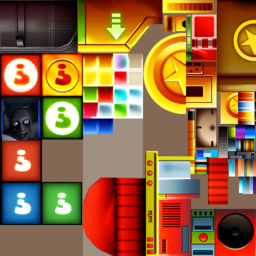
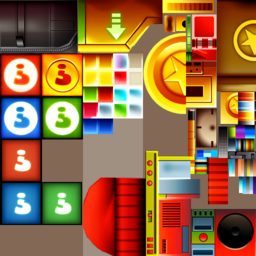
even more scary

Changed region(s): [[0.0, 0.375, 0.1562, 0.5625]]

diff --git a/Subway/js/main.js b/Subway/js/main.js
@@ -4,7 +4,7 @@ var randomNumScary = Math.random();
 
 function isScary(){
     isScaryRan = true;
-    if(randomNumScary < 0.5){
+    if(randomNumScary < 0.2){
         gameScary = true;
     };
     console.log(gameScary);
@@ -12,6 +12,35 @@ function isScary(){
 
 if(!isScaryRan){
     isScary();
+}
+
+var couldBeJake = "assets/placeholder/jake.png";
+var oceanColor = "ocean";
+var fogFunction = 187;
+var traiNS = "trains_tex";
+var proPS = "props_tex";
+var environmenT = "environment_tex";
+if(gameScary){
+    couldBeJake = "assets/placeholder/scaryface.png";
+    oceanColor = "scaryocean";
+    environmenT = "scaryenvironment_tex";  
+    proPS = "scaryprops_tex";
+    traiNS = "scarytrains_tex";
+    fogFunction = 666;
+}
+
+var scaryColorX = 0;
+var scaryColorY = 0;
+var scaryColorZ = 0;
+
+if(gameScary){
+    scaryColorX = .5;
+    scaryColorY = .5;
+    scaryColorZ = 0;
+}else{
+    ScaryColorX = 0.388;
+    ScaryColorY = 0.698;
+    ScaryColorZ = 1;
 }
 
 !(function (h) {
@@ -352,6 +381,10 @@ if(!isScaryRan){
               default: "game/ocean.png",
               low: "game/ocean_mip.png",
             },
+            "game/scaryocean": {
+                default: "game/scaryocean.png",
+                low: "game/scaryocean_mip.png",
+            },
             "game/shadow": {
               default: "game/shadow.png",
               low: "game/shadow_mip.png",
@@ -417,6 +450,10 @@ if(!isScaryRan){
               default: "idle/environment_tex.png",
               low: "idle/environment_tex_mip.png",
             },
+            "idle/scaryenvironment_tex":{
+              default: "idle/scaryenvironment_tex.png",
+              low: "idle/scaryenvironment_tex_mip.png",
+            },
             "idle/jake_tex": {
               default: "idle/jake_tex.png",
               low: "idle/jake_tex_mip.png",
@@ -424,6 +461,10 @@ if(!isScaryRan){
             "idle/props_tex": {
               default: "idle/props_tex.png",
               low: "idle/props_tex_mip.png",
+            },
+            "idle/scaryprops_tex": {
+                default: "idle/scaryprops_tex.png",
+                low: "idle/scaryprops_tex_mip.png",
             },
             "idle/train_start": {
               default: "idle/train_start.png",
@@ -436,6 +477,10 @@ if(!isScaryRan){
             "idle/trains_tex": {
               default: "idle/trains_tex.png",
               low: "idle/trains_tex_mip.png",
+            },
+            "idle/scarytrains_tex": {
+                default: "idle/scarytrains_tex.png",
+                low: "idle/scarytrains_tex_mip.png",
             },
           },
           fonts: {},
@@ -505,6 +550,9 @@ if(!isScaryRan){
             "placeholder/jake": {
               default: "placeholder/jake.png",
             },
+            "placeholder/scaryface": {
+                default: "placeholder/scaryface.png",
+            },
           },
           fonts: {},
           audio: {},
@@ -558,6 +606,10 @@ if(!isScaryRan){
     187: function (t, e) {
       t.exports =
         "uniform vec3 uGlobalAmbient;\nuniform float uOpacity;\nuniform vec3 uAmbiantLight;\n\nvarying vec3 vNormal;\nvarying vec3 vPosition;\nvarying vec4 vScreenPosition;\n\n#ifdef COLOR\nuniform vec3 uColor;\n#endif\n\n#ifdef OCCLUSION_MAP\nuniform sampler2D uOcclusionMap;\n#endif\n\n#if defined( MAP ) || defined( EMISSIVE_MAP ) || defined( OCCLUSION_MAP )\nvarying vec2 vUv;\n#endif\n\n#ifdef MAP\nuniform sampler2D uMap;\n#endif\n\n#ifdef FOG\nvarying float vFogFactor;\nvarying vec3 vFogColor;\n#endif\n\n#HOOK_LIGHT_UNIFROMS\n\nvec3 gammaCorrectInput(vec3 color) {\n    return pow(color, vec3(2.2));\n}\n\nfloat gammaCorrectInput(float color) {\n    return pow(color, 2.2);\n}\n\nvec4 gammaCorrectInput(vec4 color) {\n    return vec4(pow(color.rgb, vec3(2.2)), color.a);\n}\n\nvec3 gammaCorrectOutput(vec3 color) {\n    color += vec3(0.0000001);\n    return pow(color, vec3(0.45));\n}\n\nvec4 texture2DSRGB(sampler2D tex, vec2 uv) {\n    vec4 rgba = texture2D(tex, uv);\n    rgba.rgb = gammaCorrectInput(rgba.rgb);\n    return rgba;\n}\n\n\n#HOOK_FRAGMENT_START\n\nvoid main() {\n  vec4 finalColor = vec4(0.0, 0.0, 0.0, uOpacity);\n  vec4 diffuseColor = vec4(1.0, 1.0, 1.0, uOpacity);\n\n#ifdef COLOR\n    diffuseColor.rgb *= uColor;\n#endif\n\n#ifdef MAP\n    // diffuseColor *= texture2DSRGB(uMap, vUv);\n    diffuseColor *= texture2D(uMap, vUv);\n#endif\n\n    #HOOK_LIGHT;\n\n    finalColor.rgb = diffuseColor.rgb;\n    finalColor *= diffuseColor.a;\n    \n    #HOOK_FRAGMENT_MAIN\n\n    \n    gl_FragColor = vec4(finalColor.rgb * finalColor.a, finalColor.a);\n    \n    #HOOK_FRAGMENT_END\n\n#ifdef FOG\n    // FORCING FOG COLOR TO PREVENT A BUG WHERE SOME RED FOG OBJECT WHERE SHOWING UP \n    gl_FragColor.rgb = mix(gl_FragColor.rgb, vec3(0.388, 0.698, 1.0), vFogFactor);\n#endif\n\n    // gl_FragColor.rgb = gammaCorrectOutput(gl_FragColor.rgb);\n\n\n#ifdef RAILS\n    if (vPosition.y < 1.2) return;\n\n    float reflWidth = 1.5;\n    float railDist = 7.0;\n    float laneWidth = 20.0;\n    vec3 reflColor = vec3(1.0, 1.0, 1.0);\n    float reflFactor = abs(vScreenPosition.z - 100.0) * 0.02;\n    if (reflFactor < 0.0) reflFactor = 0.0;\n    if (reflFactor > 1.0) return;\n\n\n    // Middle lane\n    if (vPosition.x > -4.0 && vPosition.x < -2.5) {\n        gl_FragColor.rgb = mix(reflColor, gl_FragColor.rgb, reflFactor);\n    } else if (vPosition.x > 2.5 && vPosition.x < 4.0) {\n        gl_FragColor.rgb = mix(reflColor, gl_FragColor.rgb, reflFactor);\n    }\n\n    // Left lane\n    if (vPosition.x > -4.0 - laneWidth && vPosition.x < -2.5 - laneWidth) {\n        gl_FragColor.rgb = mix(reflColor, gl_FragColor.rgb, reflFactor);\n    } else if (vPosition.x > 2.5 - laneWidth && vPosition.x < 4.0 - laneWidth) {\n        gl_FragColor.rgb = mix(reflColor, gl_FragColor.rgb, reflFactor);\n    }\n\n    // Right lane\n    if (vPosition.x > -4.0 + laneWidth && vPosition.x < -2.5 + laneWidth) {\n        gl_FragColor.rgb = mix(reflColor, gl_FragColor.rgb, reflFactor);\n    } else if (vPosition.x > 2.5 + laneWidth && vPosition.x < 4.0 + laneWidth) {\n        gl_FragColor.rgb = mix(reflColor, gl_FragColor.rgb, reflFactor);\n    }\n#endif\n}\n";
+    },
+    666: function (t, e) {
+        t.exports = 
+        "uniform vec3 uGlobalAmbient;\nuniform float uOpacity;\nuniform vec3 uAmbiantLight;\n\nvarying vec3 vNormal;\nvarying vec3 vPosition;\nvarying vec4 vScreenPosition;\n\n#ifdef COLOR\nuniform vec3 uColor;\n#endif\n\n#ifdef OCCLUSION_MAP\nuniform sampler2D uOcclusionMap;\n#endif\n\n#if defined( MAP ) || defined( EMISSIVE_MAP ) || defined( OCCLUSION_MAP )\nvarying vec2 vUv;\n#endif\n\n#ifdef MAP\nuniform sampler2D uMap;\n#endif\n\n#ifdef FOG\nvarying float vFogFactor;\nvarying vec3 vFogColor;\n#endif\n\n#HOOK_LIGHT_UNIFROMS\n\nvec3 gammaCorrectInput(vec3 color) {\n    return pow(color, vec3(2.2));\n}\n\nfloat gammaCorrectInput(float color) {\n    return pow(color, 2.2);\n}\n\nvec4 gammaCorrectInput(vec4 color) {\n    return vec4(pow(color.rgb, vec3(2.2)), color.a);\n}\n\nvec3 gammaCorrectOutput(vec3 color) {\n    color += vec3(0.0000001);\n    return pow(color, vec3(0.45));\n}\n\nvec4 texture2DSRGB(sampler2D tex, vec2 uv) {\n    vec4 rgba = texture2D(tex, uv);\n    rgba.rgb = gammaCorrectInput(rgba.rgb);\n    return rgba;\n}\n\n\n#HOOK_FRAGMENT_START\n\nvoid main() {\n  vec4 finalColor = vec4(0.0, 0.0, 0.0, uOpacity);\n  vec4 diffuseColor = vec4(1.0, 1.0, 1.0, uOpacity);\n\n#ifdef COLOR\n    diffuseColor.rgb *= uColor;\n#endif\n\n#ifdef MAP\n    // diffuseColor *= texture2DSRGB(uMap, vUv);\n    diffuseColor *= texture2D(uMap, vUv);\n#endif\n\n    #HOOK_LIGHT;\n\n    finalColor.rgb = diffuseColor.rgb;\n    finalColor *= diffuseColor.a;\n    \n    #HOOK_FRAGMENT_MAIN\n\n    \n    gl_FragColor = vec4(finalColor.rgb * finalColor.a, finalColor.a);\n    \n    #HOOK_FRAGMENT_END\n\n#ifdef FOG\n    // FORCING FOG COLOR TO PREVENT A BUG WHERE SOME RED FOG OBJECT WHERE SHOWING UP \n    gl_FragColor.rgb = mix(gl_FragColor.rgb, vec3(.2, 0, 0), vFogFactor);\n#endif\n\n    // gl_FragColor.rgb = gammaCorrectOutput(gl_FragColor.rgb);\n\n\n#ifdef RAILS\n    if (vPosition.y < 1.2) return;\n\n    float reflWidth = 1.5;\n    float railDist = 7.0;\n    float laneWidth = 20.0;\n    vec3 reflColor = vec3(1.0, 1.0, 1.0);\n    float reflFactor = abs(vScreenPosition.z - 100.0) * 0.02;\n    if (reflFactor < 0.0) reflFactor = 0.0;\n    if (reflFactor > 1.0) return;\n\n\n    // Middle lane\n    if (vPosition.x > -4.0 && vPosition.x < -2.5) {\n        gl_FragColor.rgb = mix(reflColor, gl_FragColor.rgb, reflFactor);\n    } else if (vPosition.x > 2.5 && vPosition.x < 4.0) {\n        gl_FragColor.rgb = mix(reflColor, gl_FragColor.rgb, reflFactor);\n    }\n\n    // Left lane\n    if (vPosition.x > -4.0 - laneWidth && vPosition.x < -2.5 - laneWidth) {\n        gl_FragColor.rgb = mix(reflColor, gl_FragColor.rgb, reflFactor);\n    } else if (vPosition.x > 2.5 - laneWidth && vPosition.x < 4.0 - laneWidth) {\n        gl_FragColor.rgb = mix(reflColor, gl_FragColor.rgb, reflFactor);\n    }\n\n    // Right lane\n    if (vPosition.x > -4.0 + laneWidth && vPosition.x < -2.5 + laneWidth) {\n        gl_FragColor.rgb = mix(reflColor, gl_FragColor.rgb, reflFactor);\n    } else if (vPosition.x > 2.5 + laneWidth && vPosition.x < 4.0 + laneWidth) {\n        gl_FragColor.rgb = mix(reflColor, gl_FragColor.rgb, reflFactor);\n    }\n#endif\n}\n";
     },
     188: function (t, e) {
       t.exports =
@@ -1293,7 +1345,7 @@ if(!isScaryRan){
         z = i.n(S),
         T = i(186),
         P = i.n(T),
-        M = i(187),
+        M = i(fogFunction),
         E = i.n(M);
       var O = (function (n) {
         var t, e;
@@ -1316,7 +1368,7 @@ if(!isScaryRan){
                     uBend: new Float32Array([0, 0]),
                     uFogDensity: 0.008,
                     uFogDistance: 450,
-                    uFogColor: new Float32Array([0.388, 0.698, 1]),
+                    uFogColor: new Float32Array([scaryColorX, scaryColorY, scaryColorZ]),
                   },
                   !1
                 )),
@@ -1529,7 +1581,9 @@ if(!isScaryRan){
         D = i.n(A);
       var G = (function (i) {
           var t, e;
-  
+
+
+
           function ParticleMaterial(t, e) {
             void 0 === t && (t = {}), void 0 === e && (e = {});
             return (t.uniforms = {}), i.call(this, t, F.a, D.a, [], "particle") || this;
@@ -1539,18 +1593,19 @@ if(!isScaryRan){
         N = O,
         X = null,
         Y = {
-          "environment.fbx": "environment_tex",
-          "environment_start.fbx": "environment_tex",
-          "environment_idle.fbx": "environment_tex",
-          "trains.fbx": "trains_tex",
-          "trains_start.fbx": "trains_tex",
+
+          "environment.fbx": environmenT,
+          "environment_start.fbx": environmenT,
+          "environment_idle.fbx": environmenT,
+          "trains.fbx": traiNS,
+          "trains_start.fbx": traiNS,
           "model_dog.fbx": "enemies",
           "model_guard.fbx": "enemies",
           "board_new_york.fbx": "board_new_york_tex",
           "avatar_jake.fbx": "jake_tex",
           "model_avatar-movement.fbx": "jake_tex",
-          "props.fbx": "props_tex",
-          "props_start.fbx": "props_tex",
+          "props.fbx": proPS,
+          "props_start.fbx": proPS,
         },
         H = (function () {
           function Model() {}
@@ -3008,7 +3063,7 @@ if(!isScaryRan){
         var n = Coin.prototype;
         return (
           (n.createView = function () {
-            this.model || ((this.model = H.getEntityCloneOpaque("/currency/currency_coin", "props_tex")), this.addChild(this.model));
+            this.model || ((this.model = H.getEntityCloneOpaque("/currency/currency_coin", proPS)), this.addChild(this.model));
           }),
           (n.reset = function (t) {
             this.movable.reset(), this.body.velocity.reset(), this.attractable.reset(), (this.body.movable = !1), (this.active = !0);
@@ -5591,7 +5646,7 @@ if(!isScaryRan){
                 (this.distance = new Me("base_long.png")),
                 this.view.addChild(this.distance),
                 (this.coins = new Me("base_long.png", "icon_coin_large.png")),
-                this.view.addChild(this.coins),
+                this.view.aoins),
                 (this.multiplier = new Ee(this.game)),
                 this.view.addChild(this.multiplier),
                 (this.countdown = new c.Text("0", {
@@ -5607,7 +5662,7 @@ if(!isScaryRan){
                 (this.countdown.visible = !1),
                 (this.timers = new c.Container()),
                 this.view.addChild(this.timers),
-                this.resize());
+                this.resize();
             }),
             (t.update = function (t) {
               if (this.game.state === pn.RUNNING && this._built && !(0 < this.countUpdate--)) {
@@ -7075,7 +7130,7 @@ if(!isScaryRan){
             this.count && ((this.count -= this.entity.game.stats.delta), this.entity.game.hud.updateItemTimer("magnet", this.ratio), this.count <= 0 && this.turnOff());
           }),
           (a.turnOn = function () {
-            this.createView(), this.entity.game.hud.addMessage("POWERUP: COIN MAGNET"), this.entity.game.hud.addItemTimer("magnet"), (this.count = this.duration);
+            this.createView(), this.entity.game.hud.addMessage("behind you"), this.entity.game.hud.addItemTimer("magnet"), (this.count = this.duration);
             var t = this.entity.anim.scenes[1];
             H.findEntity("R_Hand_jnt", t.pixiTree, 10).addChild(this.view),
               (this.timer = this.entity.game.sfx.play("special_magnet", {
@@ -9353,7 +9408,7 @@ if(!isScaryRan){
         return H.getEntityClone("epic_start");
       }),
         (Ki.newStart001 = function () {
-          return H.getEntityClone("epic_start001", "ocean", !1, Zi);
+          return H.getEntityClone("epic_start001", oceanColor, !1, Zi);
         }),
         (Ki.newStart002 = function () {
           return H.getEntityClone("epic_start002", "", !1, R);
@@ -9368,7 +9423,7 @@ if(!isScaryRan){
           return H.getEntityClone("epic_mid001", "", !1, R);
         }),
         (Ki.newMid002 = function () {
-          return H.getEntityClone("epic_mid002", "ocean", !1, Zi);
+          return H.getEntityClone("epic_mid002", oceanColor, !1, Zi);
         }),
         (Ki.newMid003 = function () {
           return H.getEntityClone("epic_mid003", "", !1, R);
@@ -9380,7 +9435,7 @@ if(!isScaryRan){
           return H.getEntityClone("epic_end001", "", !1, R);
         }),
         (Ki.newEnd002 = function () {
-          return H.getEntityClone("epic_end002", "ocean", !1, Zi);
+          return H.getEntityClone("epic_end002", oceanColor, !1, Zi);
         }),
         (Ki.newEnd003 = function () {
           return H.getEntityClone("epic_end003", "", !1, R);
@@ -9389,7 +9444,7 @@ if(!isScaryRan){
           return H.getEntityClone("epic_1_start");
         }),
         (Ki.newStart001Alt = function () {
-          return H.getEntityClone("epic_1_start001", "ocean", !1, Zi);
+          return H.getEntityClone("epic_1_start001", oceanColor, !1, Zi);
         }),
         (Ki.newStart002Alt = function () {
           return H.getEntityClone("epic_1_start002", "", !1, R);
@@ -9404,7 +9459,7 @@ if(!isScaryRan){
           return H.getEntityClone("epic_1_mid001", "", !1, R);
         }),
         (Ki.newMid002Alt = function () {
-          return H.getEntityClone("epic_1_mid002", "ocean", !1, Zi);
+          return H.getEntityClone("epic_1_mid002", oceanColor, !1, Zi);
         }),
         (Ki.newMid003Alt = function () {
           return H.getEntityClone("epic_1_mid003", "", !1, R);
@@ -9416,7 +9471,7 @@ if(!isScaryRan){
           return H.getEntityClone("epic_1_end001", "", !1, R);
         }),
         (Ki.newEnd002Alt = function () {
-          return H.getEntityClone("epic_1_end002", "ocean", !1, Zi);
+          return H.getEntityClone("epic_1_end002", oceanColor, !1, Zi);
         }),
         (Ki.newEnd003Alt = function () {
           return H.getEntityClone("epic_1_end003", "", !1, R);
@@ -10365,17 +10420,17 @@ if(!isScaryRan){
         if (!this.playingTheme && B.theme) {
             this.playingTheme = true;
             this.sfx.volume(this.config.volume * 2);
-            this.sfx.play("scarytheme");
+            this.sfx.play("scarytheme",{ loop: true });
         }
     } else {
         if (!this.playingTheme && B.theme) {
             this.playingTheme = true;
             this.sfx.volume(this.config.volume);
-            this.sfx.play("theme");
+            this.sfx.play("theme",{ loop: true });
         }
     }
-    this.theme = true;
-    this.sfx.loadAll();
+        theme: !0;
+        this.sfx.loadAll();
 
     }),
           (s.enterTunnel = function () {
@@ -12015,7 +12070,7 @@ if(!isScaryRan){
               this.menu.btn.boosts && (this.menu.btn.boosts.x = -90),
               (this.menu.btn.play.x = 180),
               (this.menu.btn.play.y = -12),
-              (this.jake = new Fn("assets/placeholder/jake.png")),
+              (this.jake = new Fn(couldBeJake)),
               (this.jake.x = -180),
               (this.jake.y = 60),
               this.content.addChild(this.jake),
